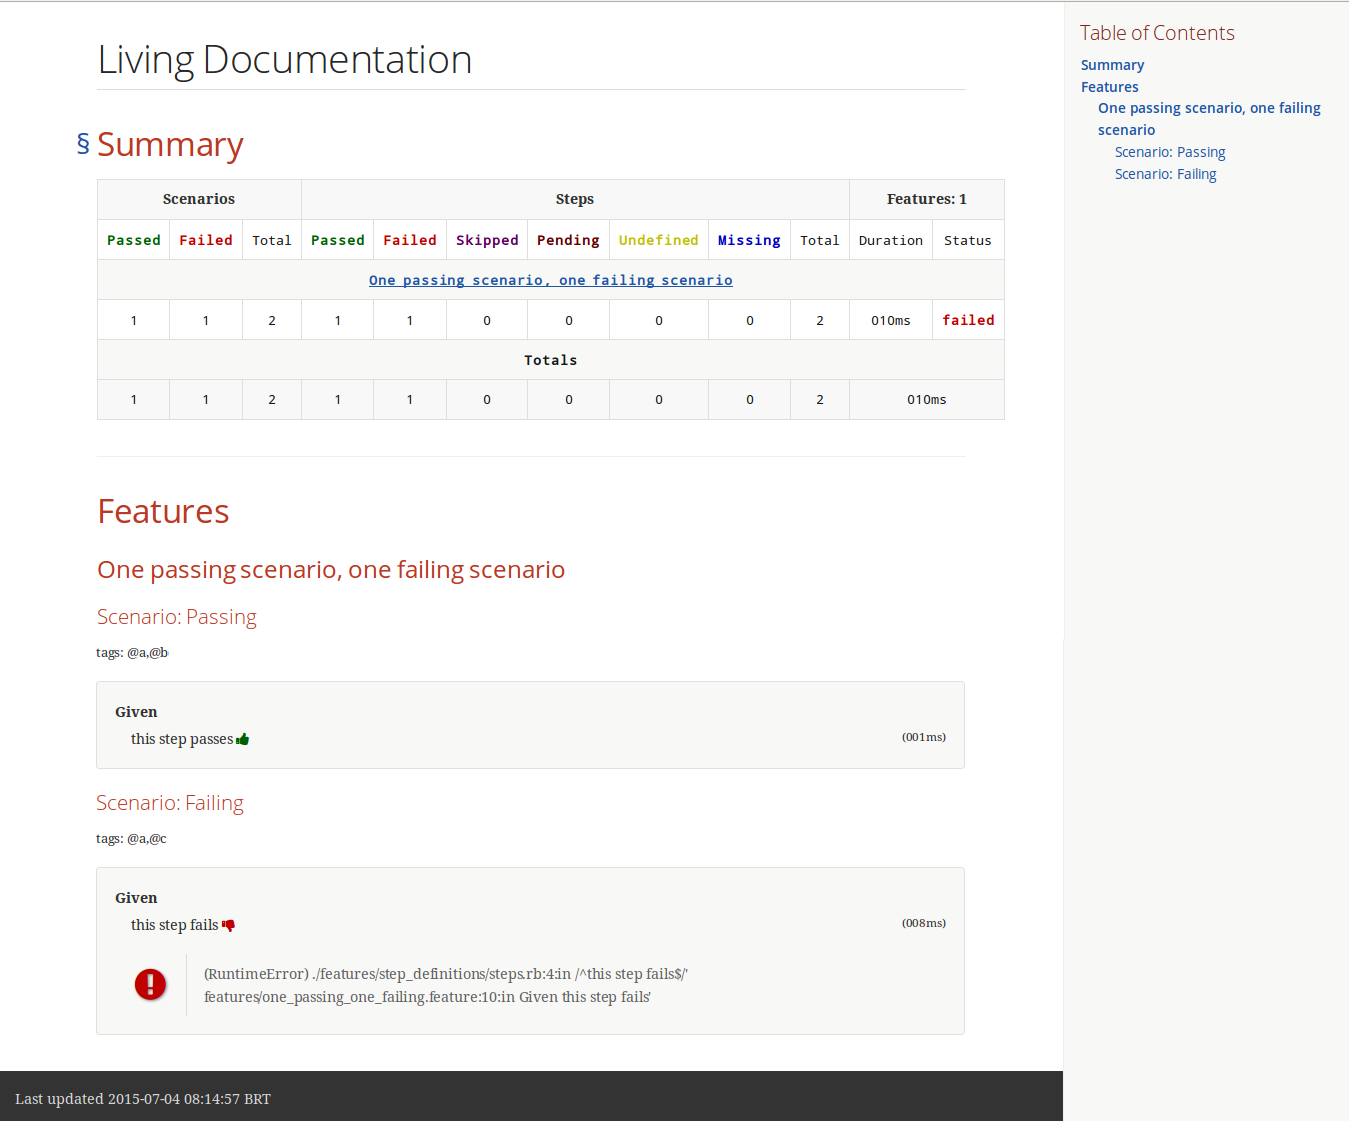
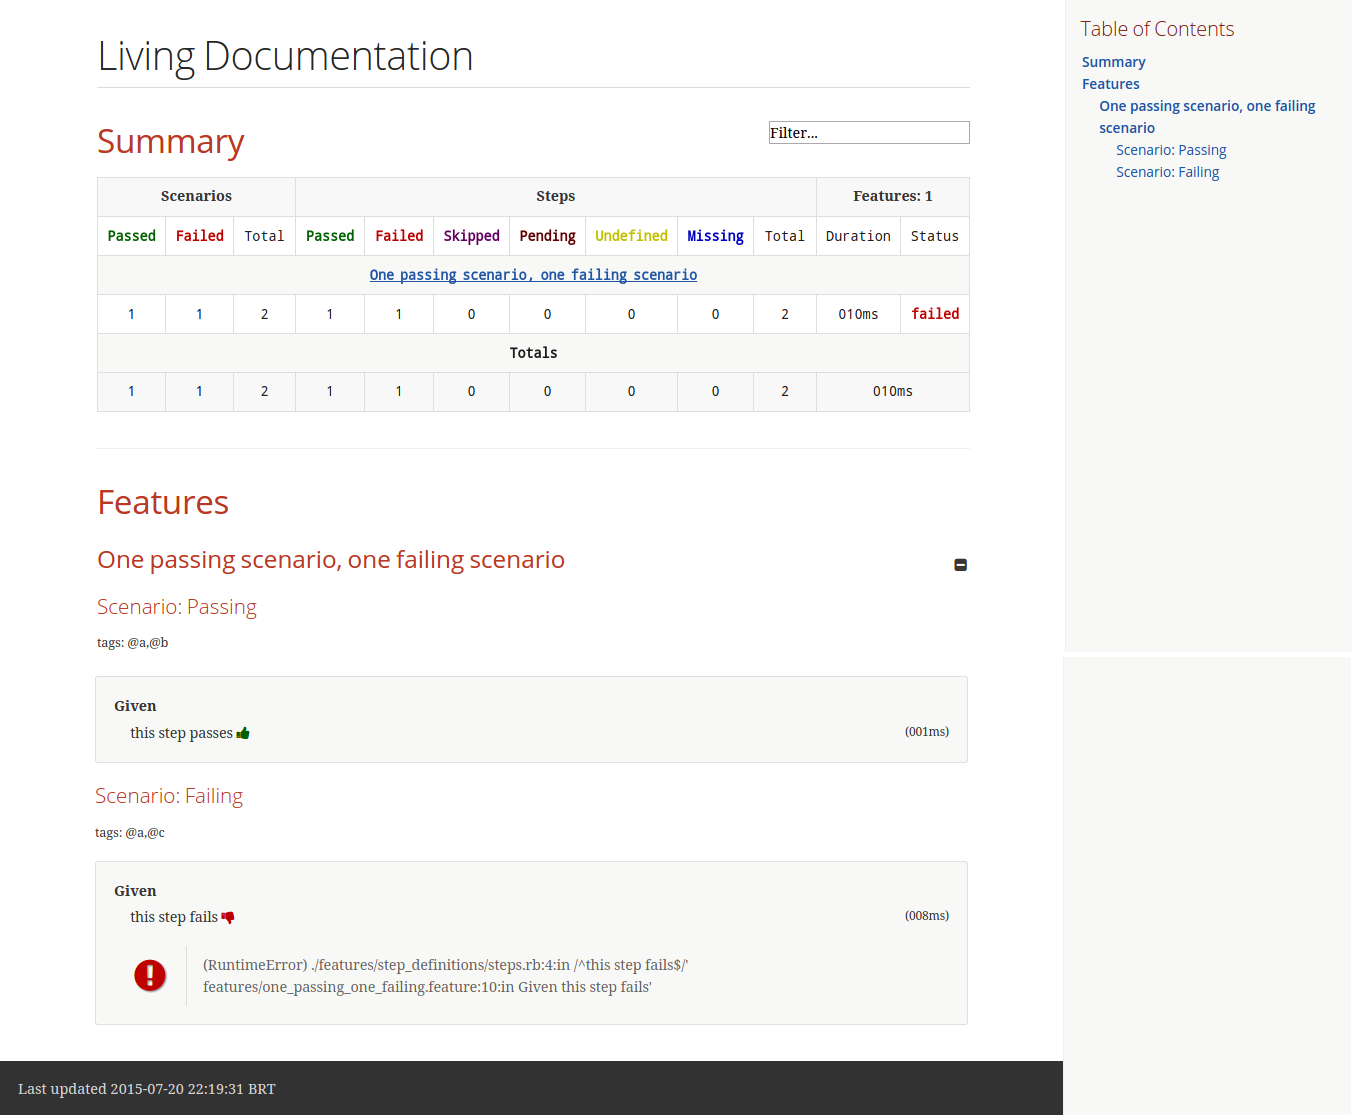
v0.5.1

diff --git a/cukedoctor-converter/src/main/java/com/github/cukedoctor/converter/CukedoctorConverterImpl.java b/cukedoctor-converter/src/main/java/com/github/cukedoctor/converter/CukedoctorConverterImpl.java
@@ -458,8 +458,7 @@ public class CukedoctorConverterImpl implements CukedoctorConverter {
 		if(documentAttributes != null && documentAttributes.isSearchable()) {
 			writer.write(newLine(), "++++", newLine()).
 					write("<script type = \"text/javascript\" >"+newLine() +
-							""+newLine() +
-							"var allLevel2ListItens = null;"+newLine() +
+					"var allLevel2ListItens = null;"+newLine() +
 							""+newLine() +
 							"function searchFeature(criteria) {"+newLine() +
 							"    if (criteria != null && criteria.length >= 3) {"+newLine() +
@@ -483,19 +482,8 @@ public class CukedoctorConverterImpl implements CukedoctorConverter {
 							"                            //used to scroll to after search"+newLine() +
 							"                            firstMatch = h3;"+newLine() +
 							"                        }"+newLine() +
-							"                        //remove toc"+newLine() +
-							"                        if (allLevel2ListItens == null) {"+newLine() +
-							"                            collectallLevel2IListItens();"+newLine() +
-							"                        }"+newLine() +
-							"                        for (var z = 0; z < allLevel2ListItens.length; z++) {"+newLine() +
-							"                            if (allLevel2ListItens[z].childNodes[0].tagName && allLevel2ListItens[z].childNodes[0].tagName.toLowerCase() == \"a\") {"+newLine() +
-							"                                if (allLevel2ListItens[z].childNodes[0].getAttribute(\"href\").toUpperCase().substring(1).match(criteria.toUpperCase())) {"+newLine() +
-							"                                    allLevel2ListItens[z].style.display = 'inline';"+newLine() +
-							"                                } else {"+newLine() +
-							"                                    allLevel2ListItens[z].style.display = 'none';"+newLine() +
-							"                                }"+newLine() +
-							"                            }"+newLine() +
-							"                        }//end for allListItens"+newLine() +
+							"                        //filter toc"+newLine() +
+							"                        filterToc(criteria);"+newLine() +
 							"                    }"+newLine() +
 							"                }"+newLine() +
 							"            }//end for"+newLine() +
@@ -508,21 +496,42 @@ public class CukedoctorConverterImpl implements CukedoctorConverter {
 							""+newLine() +
 							"    }//end criteria.length >=3"+newLine() +
 							"    else {//clear search"+newLine() +
-							"        var sect2List = document.getElementsByClassName(\"sect2\");"+newLine() +
-							"        if (sect2List != null) {"+newLine() +
-							"            for (var i = 0; i < sect2List.length; i++) {"+newLine() +
-							"                sect2List[i].style.display = 'inline';"+newLine() +
-							"            }//end for"+newLine() +
-							"        }//end elements != null"+newLine() +
-							""+newLine() +
-							"        if (allLevel2ListItens == null) {"+newLine() +
-							"            collectallLevel2IListItens();"+newLine() +
-							"        }"+newLine() +
-							"        for (var z = 0; z < allLevel2ListItens.length; z++) {"+newLine() +
-							"            allLevel2ListItens[z].style.display = 'inline';"+newLine() +
-							"        }"+newLine() +
-							""+newLine() +
+							"        clearSearch();"+newLine() +
 							"    }"+newLine() +
+							"}"+newLine() +
+							""+newLine() +
+							"function clearSearch() {"+newLine() +
+							"    var sect2List = document.getElementsByClassName(\"sect2\");"+newLine() +
+							"    if (sect2List != null) {"+newLine() +
+							"        for (var i = 0; i < sect2List.length; i++) {"+newLine() +
+							"            sect2List[i].style.display = 'inline';"+newLine() +
+							"        }//end for"+newLine() +
+							"    }//end elements != null"+newLine() +
+							""+newLine() +
+							"    if (allLevel2ListItens == null) {"+newLine() +
+							"        collectallLevel2IListItens();"+newLine() +
+							"    }"+newLine() +
+							"    for (var z = 0; z < allLevel2ListItens.length; z++) {"+newLine() +
+							"        allLevel2ListItens[z].style.display = 'inline';"+newLine() +
+							"    }"+newLine() +
+							"    if (document.getElementById('input-search')) {"+newLine() +
+							"        document.getElementById('input-search').value = 'Filter...';"+newLine() +
+							"    }"+newLine() +
+							"}"+newLine() +
+							""+newLine() +
+							"function filterToc(criteria) {"+newLine() +
+							"    if (allLevel2ListItens == null) {"+newLine() +
+							"        collectallLevel2IListItens();"+newLine() +
+							"    }"+newLine() +
+							"    for (var z = 0; z < allLevel2ListItens.length; z++) {"+newLine() +
+							"        if (allLevel2ListItens[z].childNodes[0].tagName && allLevel2ListItens[z].childNodes[0].tagName.toLowerCase() == \"a\") {"+newLine() +
+							"            if (allLevel2ListItens[z].childNodes[0].getAttribute(\"href\").toUpperCase().substring(1).match(criteria.toUpperCase())) {"+newLine() +
+							"                allLevel2ListItens[z].style.display = 'inline';"+newLine() +
+							"            } else {"+newLine() +
+							"                allLevel2ListItens[z].style.display = 'none';"+newLine() +
+							"            }"+newLine() +
+							"        }"+newLine() +
+							"    }//end for allListItens"+newLine() +
 							"}"+newLine() +
 							""+newLine() +
 							"function animate(elem, style, unit, from, to, time, prop) {"+newLine() +
@@ -556,9 +565,8 @@ public class CukedoctorConverterImpl implements CukedoctorConverter {
 							"        } //end for uls child"+newLine() +
 							"    }//end for uls"+newLine() +
 							""+newLine() +
-							"}"+newLine() +
-							""+newLine() +
-							"", newLine(), "</script>", newLine(), "++++");
+							"}" +
+					"", newLine(), "</script>", newLine(), "++++");
 		}
 
 	}

diff --git a/cukedoctor-maven-plugin/src/main/java/com/github/cukedoctor/mojo/CukedoctorMojo.java b/cukedoctor-maven-plugin/src/main/java/com/github/cukedoctor/mojo/CukedoctorMojo.java
@@ -119,7 +119,7 @@ public class CukedoctorMojo extends AbstractMojo {
 		if (format.equals(Format.all)) {
 			documentAttributes.backend(Format.html5.name().toLowerCase());
 			generateDocumentation(documentAttributes, adocFile, asciidoctor);
-			documentAttributes.backend(Format.pdf.name().toLowerCase());
+			documentAttributes.backend(Format.pdf.name().toLowerCase()).minimizable(false).searchable(false).docInfo(false);
 			generateDocumentation(documentAttributes, adocFile, asciidoctor);
 		} else {
 			generateDocumentation(documentAttributes, adocFile, asciidoctor);

diff --git a/cukedoctor-main/src/main/java/com/github/cukedoctor/CukedoctorMain.java b/cukedoctor-main/src/main/java/com/github/cukedoctor/CukedoctorMain.java
@@ -137,7 +137,7 @@ public class CukedoctorMain {
 		if("all".equals(format)){
 			documentAttributes.backend("html5");
 			resultDoc = this.execute(features, documentAttributes, outputName);
-			documentAttributes.backend("pdf");
+			documentAttributes.backend("pdf").minimizable(false).searchable(false);
 			this.execute(features, documentAttributes, outputName);
 		}else{
 			resultDoc = this.execute(features,documentAttributes,outputName);
